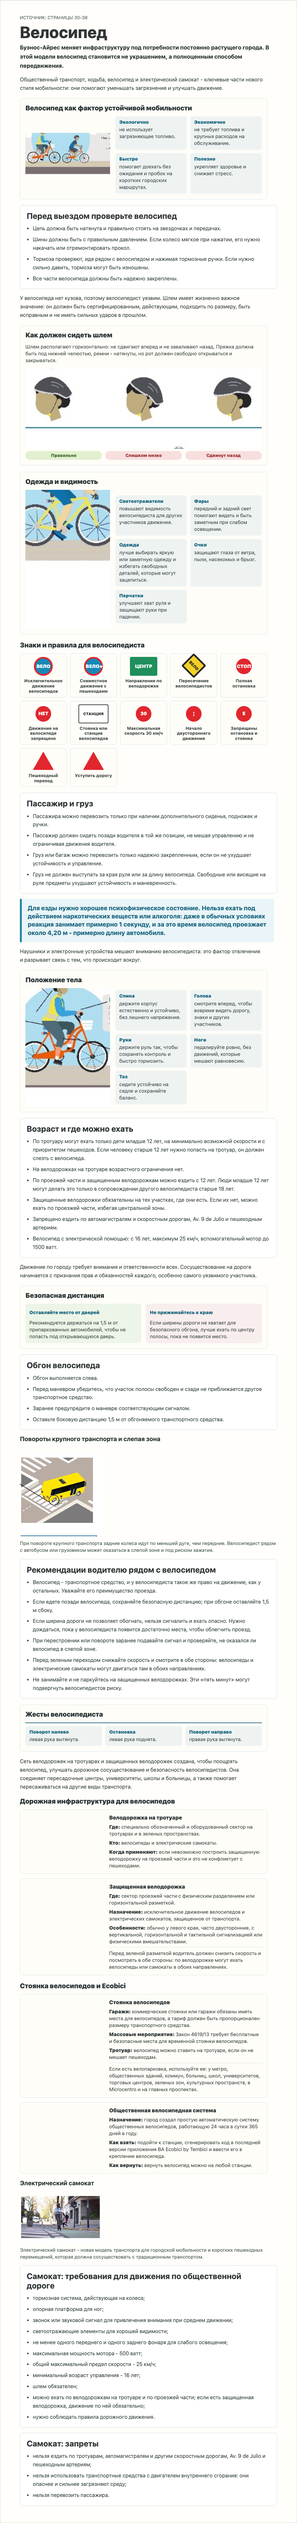
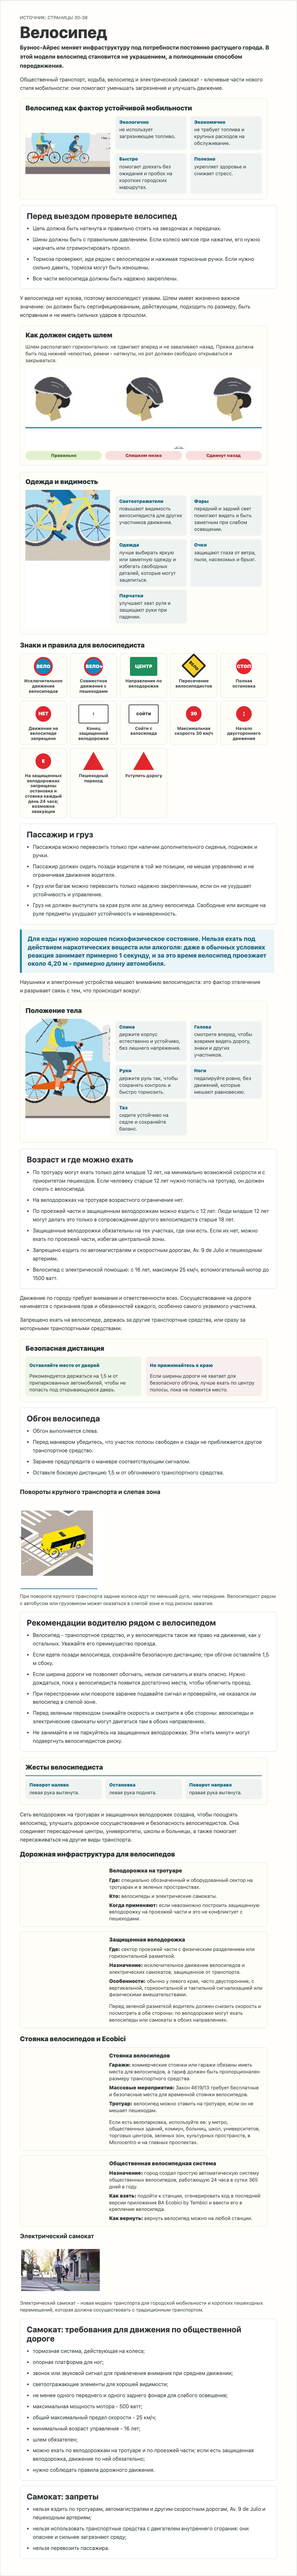
Fix bicycle review feedback

Changed region(s): [[0.0614, 0.0, 0.8904, 0.9996]]

diff --git a/tests/e2e/app.spec.ts b/tests/e2e/app.spec.ts
@@ -3018,6 +3018,11 @@ test("Manual guide exposes Chapter 1 section pages and keeps later sections pend
   await expect(bicycleSection).toContainText("4,20 м");
   await expect(bicycleSection).toContainText("старше 18 лет");
   await expect(bicycleSection).toContainText("1500 ватт");
+  await expect(bicycleSection).toContainText("Конец защищенной велодорожки");
+  await expect(bicycleSection).toContainText("Сойти с велосипеда");
+  await expect(bicycleSection).toContainText("На защищенных велодорожках запрещены остановка и стоянка каждый день 24 часа");
+  await expect(bicycleSection).toContainText("эвакуация");
+  await expect(bicycleSection).toContainText("Запрещено ехать на велосипеде, держась за другие транспортные средства");
   await expect(bicycleSection).toContainText("1,5 м");
   await expect(bicycleSection).toContainText("Поворот налево");
   await expect(bicycleSection).toContainText("BA Ecobici by Tembici");
@@ -3037,6 +3042,7 @@ test("Manual guide exposes Chapter 1 section pages and keeps later sections pend
   await expect(bicycleSection).not.toContainText("Viaje compartido");
   await expect(bicycleSection).not.toContainText("Responsabilidades legales");
   await expect(bicycleSection).not.toContainText("Acompanante");
+  await expect(bicycleSection).not.toContainText("Стоянка или станция велосипедов");
   await expect(bicycleSection.locator("iframe, object, embed")).toHaveCount(0);
   await expect(bicycleSection.locator('[data-testid="manual-page-canvas"], [data-testid="manual-source-mask"]')).toHaveCount(0);
 
@@ -3101,6 +3107,9 @@ test("Manual guide exposes Chapter 1 section pages and keeps later sections pend
   });
   expect(bicycleSelectedText).toContain("Правильно");
   expect(bicycleSelectedText).toContain("Слишком низко");
+  expect(bicycleSelectedText).toContain("Конец защищенной велодорожки");
+  expect(bicycleSelectedText).toContain("Сойти с велосипеда");
+  expect(bicycleSelectedText).toContain("Запрещено ехать на велосипеде");
   expect(bicycleSelectedText).toContain("Поворот налево");
   expect(bicycleSelectedText).toContain("1,5 м");
   expect(bicycleSelectedText).toContain("500 ватт");

diff --git a/src/data/manual-sections/ch1-bicycle.ts b/src/data/manual-sections/ch1-bicycle.ts
@@ -255,10 +255,16 @@ export const ch1BicycleSection: ManualGuideSectionContent = {
           labelRu: "Движение на велосипеде запрещено"
         },
         {
-          id: "bike-station",
+          id: "end-ciclovia",
           visualKind: "text",
-          markerRu: "станция",
-          labelRu: "Стоянка или станция велосипедов"
+          markerRu: "!",
+          labelRu: "Конец защищенной велодорожки"
+        },
+        {
+          id: "dismount-bicycle",
+          visualKind: "text",
+          markerRu: "сойти",
+          labelRu: "Сойти с велосипеда"
         },
         {
           id: "max-30",
@@ -276,7 +282,7 @@ export const ch1BicycleSection: ManualGuideSectionContent = {
           id: "no-parking",
           visualKind: "red",
           markerRu: "E",
-          labelRu: "Запрещены остановка и стоянка"
+          labelRu: "На защищенных велодорожках запрещены остановка и стоянка каждый день 24 часа; возможна эвакуация"
         },
         {
           id: "pedestrian-crossing",
@@ -392,6 +398,14 @@ export const ch1BicycleSection: ManualGuideSectionContent = {
         "Moverse en la Ciudad requiere de atencion y compromiso de toda la ciudadania. Mejorar la convivencia implica reconocer los derechos y obligaciones de cada persona.",
       textRu:
         "Движение по городу требует внимания и ответственности всех. Сосуществование на дороге начинается с признания прав и обязанностей каждого, особенно самого уязвимого участника."
+    },
+    {
+      id: "vehicle-holding-prohibition",
+      kind: "paragraph",
+      sourceTextEs:
+        "Esta prohibido circular agarrados a otros vehiculos o enfilados inmediatamente tras otros automotores.",
+      textRu:
+        "Запрещено ехать на велосипеде, держась за другие транспортные средства, или сразу за моторными транспортными средствами."
     },
     {
       id: "safe-distance",

diff --git a/specs/030-manual-chapters-1-2/tasks.md b/specs/030-manual-chapters-1-2/tasks.md
@@ -150,7 +150,7 @@ For each section key:
 - [x] Rendered runtime visual content as Russian DOM labels plus local source-derived non-text crops; Spanish source crops remain validation evidence only and are not mounted as learner text/content.
[4 lines of base64/hex data omitted]
 - [x] Added focused content/e2e tests for route activation, implemented-vs-pending state, source pages `30-38`, visual asset paths/hashes, no unrelated section implementation, no full source page raster, no remote assets, no visible Spanish learner text, selectable Russian labels, no overflow/layout clipping, desktop/mobile screenshots, and pending status for public transport/shared trip.
 - [x] Focused verification passed before this process-memory update: `pnpm exec tsc --noEmit`; `node scripts/manual-guide-source-fidelity.mjs` (`implementedSections: 4`, `pendingSections: 6`, skipped source pages `[21, 43, 56]`, shared source pages `[55]`); `node --test tests/content-manual-guide-chapters.test.mjs` (`20/20`); `pnpm run build`; `pnpm exec playwright test tests/e2e/app.spec.ts --grep "Manual guide exposes Chapter 1 section pages" --project=chromium --project=mobile` (`2/2` after correcting the public transport/shared-trip pending ranges and making selected Russian signal labels preserve authored case).
 - [x] In-app browser verification opened `http://127.0.0.1:5174/#manual-section-ch1-bicycle` and confirmed the rendered `Велосипед` section route before screenshot generation; committed desktop/mobile screenshots were visually inspected for bicycle/scooter/gesture/lane artwork quality, visible-Spanish absence, and readable responsive layout.
@@ -158,6 +158,12 @@ For each section key:
 - [x] Docker runtime smoke passed with isolated project/port: `docker version --format '{{.Server.Version}}'` reported `27.5.1`; `lsof -nP -iTCP:5207 -sTCP:LISTEN` returned no listener; `COMPOSE_PROJECT_NAME=cabadrive030bicycle CABADRIVE_HOST_PORT=5207 make build` built the image and reran content validation/build inside Docker; `COMPOSE_PROJECT_NAME=cabadrive030bicycle CABADRIVE_HOST_PORT=5207 make up` started `cabadrive030bicycle-cabadrive-1`; `curl -fsS http://127.0.0.1:5207/ | head -n 5` returned the Russian HTML shell; `pnpm exec node --input-type=module` Playwright smoke of `http://127.0.0.1:5207/#manual-section-ch1-bicycle` confirmed route section id, 13 no-visible-Spanish images, helmet/distance/scooter text, no Spanish learner text, and no horizontal overflow; `COMPOSE_PROJECT_NAME=cabadrive030bicycle CABADRIVE_HOST_PORT=5207 make down` stopped the runtime; `docker compose -p cabadrive030bicycle ps --all` showed no remaining containers.
 - [x] Known issues for this implementation slice: none at local handoff; no unresolved Implementation Agent feedback.
 - [x] Finalized implementation commit/push and opened ready PR metadata for this slice: PR #180, `https://github.com/cucumberfalse/cabadrive/pull/180`, branch `codex/030-ch1-bicycle`, implementation content head before this PR-metadata evidence update `73ae810f3a812f27301cf2e52c7a4b765ead3379`, draft status `false`. Final handoff head is the later process-memory evidence commit reported by the Implementation Agent after push.
+- [x] PR #180 review-fix baseline: Orchestrator assigned current PR head `5b94f3e353e12da695b6a39f6cbba5e598400a5d`; `git status --short --branch` returned `## codex/030-ch1-bicycle...origin/codex/030-ch1-bicycle` before edits.
+- [x] Addressed PR #180 sign-sheet source-fidelity review `PRRT_kwDOSX65IM6F54lR` / `discussion_r3329475200`: restored source-order signs `end-ciclovia` and `dismount-bicycle`, removed the non-source `bike-station` / `Стоянка или станция велосипедов` entry, and made the ciclovia no-parking rule selectable Russian DOM text with every-day `24 часа` plus evacuation/towing meaning.
+- [x] Addressed PR #180 page `34` riding-prohibition review `PRRT_kwDOSX65IM6F54lS` / `discussion_r3329475202` and duplicate `PRRT_kwDOSX65IM6F54f9` / `discussion_r3329474735`: added the source-order prohibition against riding while holding onto other vehicles or immediately behind motor vehicles as selectable Russian DOM text before the safe-distance block.
+- [x] Addressed PR #180 cycle-row review `PRRT_kwDOSX65IM6F54lT` / `discussion_r3329475203`: removed the stale pending `ch1-bicycle` cycle PR set row so this section is no longer listed as both implemented and pending.
[1 lines of base64/hex data omitted]
+- [x] PR #180 review-fix verification passed: `node scripts/manual-guide-source-fidelity.mjs`; `node --test tests/content-manual-guide-chapters.test.mjs` (`20/20`); `pnpm run build`; `pnpm exec playwright test tests/e2e/app.spec.ts --grep "Manual guide exposes Chapter 1 section pages" --project=chromium --project=mobile` (`2/2`); `pnpm exec tsc --noEmit`; `git diff --check`; `node scripts/check-feature-memory.mjs --worktree`.
 
 ## Review Requirements
 
@@ -253,7 +259,7 @@ For each section key:
 - No unresolved known issues for local `ch1-sustainable-mobility` implementation at the time of focused local verification. Architect/Review/Orchestrator validation remains pending after PR creation.
 - Orchestrator visual-inspection blocker for `ch1-sustainable-mobility` mobile infographic clipping is resolved locally by the follow-up responsive reflow and regenerated mobile screenshot; Review/Orchestrator confirmation remains pending after push.
 - Orchestrator visual-polish blocker for `ch1-sustainable-mobility` mobile `ВЕЛОСИПЕДИСТЫ` word split is resolved locally by the two-column vulnerability label grid and regenerated mobile screenshot; Review/Orchestrator confirmation remains pending after push.
-- No unresolved known issues for local `ch1-bicycle` implementation at the time of focused source-fidelity/content/TypeScript/build/Playwright verification. Review/Orchestrator validation remains pending after PR creation.
+- No unresolved known issues for local `ch1-bicycle` implementation after PR #180 review fixes and focused source-fidelity/content/TypeScript/build/Playwright/diff/feature-memory verification. Review-thread resolution and final validation remain Orchestrator/Review responsibilities.
 
 ### Verification Evidence
 
@@ -336,14 +342,16 @@ For each section key:
 - Implementation Agent source inspection for `ch1-bicycle`: inspected source PDF pages `30-38` in `manual.ru.json`, `layout.ru.json`, `navigation.ru.json`, the section registry, and local page renders `page-030.jpg` through `page-038.jpg`. Visual inspection confirmed bicycle, helmet/gear, signs, posture, distance, off-tracking, hand signals, lanes, parking, Ecobici, and scooter visual content belongs to one website-section PR.
 - Source crop evidence for `ch1-bicycle`: generated nine validation crops under `content/validation/manual-guide/ch1-bicycle/` for pages `30-38`; dimensions and SHA-256 values are recorded in the current-section slice above and in the section registry.
 - Runtime crop evidence for `ch1-bicycle`: generated thirteen source-derived non-text runtime assets under `content/assets/manuals/gcba-manual-vehiculo-4-ruedas-2023/sections/ch1-bicycle/`; dimensions and SHA-256 values are recorded in the current-section slice above and in the section registry.
[4 lines of base64/hex data omitted]
 - In-app browser verification for `ch1-bicycle`: direct route `http://127.0.0.1:5174/#manual-section-ch1-bicycle` rendered the `Велосипед` section; desktop/mobile screenshots were visually inspected after the selected-text case fix and showed readable bicycle, scooter, gesture, lane, helmet, distance, parking, and Ecobici visuals without visible Spanish learner text.
 - Focused local verification passed for `ch1-bicycle`: `node scripts/manual-guide-source-fidelity.mjs` returned `status: pass`, `implementedSections: 4`, `pendingSections: 6`, skipped source pages `[21, 43, 56]`, shared source pages `[55]`, and source-crop/screenshot evidence recorded for implemented sections.
 - Focused local verification passed for `ch1-bicycle`: `node --test tests/content-manual-guide-chapters.test.mjs` passed `20/20`; `pnpm exec tsc --noEmit` passed; `pnpm run build` passed including content validation, manual-guide checker, Vite build, and service-worker generation; `pnpm exec playwright test tests/e2e/app.spec.ts --grep "Manual guide exposes Chapter 1 section pages" --project=chromium --project=mobile` passed `2/2` across desktop Chromium and Pixel 7 mobile.
 - Full local verification passed for `ch1-bicycle`: `pnpm run test` passed `329/329`; `pnpm run preflight` completed feature-memory gate, repo baseline, content validation/source-fidelity, `329/329` Node tests, production build/service-worker generation, and full Playwright e2e with `74/74` passing tests across desktop/mobile projects.
 - Docker runtime smoke passed for `ch1-bicycle` with isolated project/port: `COMPOSE_PROJECT_NAME=cabadrive030bicycle CABADRIVE_HOST_PORT=5207 make build` built the image and reran content validation/build inside Docker; `COMPOSE_PROJECT_NAME=cabadrive030bicycle CABADRIVE_HOST_PORT=5207 make up` started the container; `curl -fsS http://127.0.0.1:5207/ | head -n 5` returned the Russian HTML shell; a Playwright smoke of `http://127.0.0.1:5207/#manual-section-ch1-bicycle` confirmed section id `ch1-bicycle`, 13 `data-visible-spanish="false"` images, helmet/distance/scooter learner text, no Spanish learner text, and no document overflow; `COMPOSE_PROJECT_NAME=cabadrive030bicycle CABADRIVE_HOST_PORT=5207 make down` stopped the runtime; `docker compose -p cabadrive030bicycle ps --all` showed no remaining containers.
 - Ready PR opened for `ch1-bicycle`: PR #180, `https://github.com/cucumberfalse/cabadrive/pull/180`, branch `codex/030-ch1-bicycle`, implementation content head `73ae810f3a812f27301cf2e52c7a4b765ead3379`, draft status `false`. Final handoff head is the later process-memory evidence commit reported by the Implementation Agent after push.
+- PR #180 review-fix implementation: restored page `32` sign-sheet source order, removed the non-source station sign, added no-parking-on-ciclovia `24 часа`/evacuation learner text, added the page `34` prohibition against holding onto/following motor vehicles before distance guidance, and removed the stale pending `ch1-bicycle` cycle PR set row.
+- PR #180 review-fix verification passed: `node scripts/manual-guide-source-fidelity.mjs` returned `status: pass`, `implementedSections: 4`, `pendingSections: 6`; `node --test tests/content-manual-guide-chapters.test.mjs` passed `20/20`; `pnpm run build` passed; `pnpm exec playwright test tests/e2e/app.spec.ts --grep "Manual guide exposes Chapter 1 section pages" --project=chromium --project=mobile` passed `2/2`; `pnpm exec tsc --noEmit` passed; `git diff --check` passed; `node scripts/check-feature-memory.mjs --worktree` passed.
 
 ### Cycle PR Set
 
@@ -355,8 +363,7 @@ For each section key:
 | `ch1-cities-for-people` | Implement website section page `Ciudades para las personas` / `Города для людей` with source page `22` evidence and selectable `ПЛАВНОСТЬ / БЕЗОПАСНОСТЬ` visual | `codex/030-ch1-cities-for-people` | PR #177, `https://github.com/cucumberfalse/cabadrive/pull/177` | prior effective content head `499aa8547f7d13b3b9819cbd0d2e8650fa99da06` is stale after source-order P2; final crop-order fix head reported after push | crop-order fix implemented locally; focused checker/content/build/Playwright, diff hygiene, and feature-memory check passed; final validation must rerun | yes |
 | `ch1-sustainable-mobility` | Implement website section page `¿Qué es la movilidad sustentable?` / `Что такое устойчивая мобильность?` with source page `23` infographic and vulnerability-order evidence | `codex/030-ch1-sustainable-mobility` | PR #178, `https://github.com/cucumberfalse/cabadrive/pull/178` | implementation content head `c068245dd3ed4138735b2b12dc50d27f688bce8c`; prior PR-metadata evidence head `73df18169ad941501a3ce7b5f8c77af14ff9fc43`; responsive-fix head `47be8d1a9f81cf05746e4d738bdd519dd81c4fa5`; visual-polish head `040aa70d4ee08a70f599b570b91832587b02baf7`; label/pictogram mapping fix head `470333e95494438f86e128fe61858339d077367f`; final-validation evidence head `b1a8cf067c1d452db58d8b50204a23dc57652b9d`; accessibility P2 fix head `403e779cae2b526e6fd90a06bf12a752f709416e`; current-head 50-person asset P2 fix head reported after push | implemented and opened ready; mobile infographic clipping, label word-split, label/pictogram mapping, desktop assistive-tech label, and explicit 50-person space-crop follow-ups implemented locally; current source-fidelity/content/tsc/build/focused Playwright/diff/feature-memory and full preflight passed; Docker smoke passed before later P2 fixes | yes |
 | `ch1-pedestrian-priority` | Implement website section page `Prioridad peatonal` / `Пешеходный приоритет` with source pages `24-29` visual/evidence coverage | `codex/030-ch1-pedestrian-priority` | PR #179, `https://github.com/cucumberfalse/cabadrive/pull/179` | implementation content head `ee2b335884a445b92ce195500bf90527672b9594`; final handoff head reported by Implementation Agent after PR-metadata evidence commit | implemented and opened ready; focused source-fidelity/content/TypeScript/build/Playwright, in-app browser verification, full preflight, Docker smoke, diff hygiene, and feature-memory checks passed | yes |
-| `ch1-bicycle` | Implement website section page `Bicicleta` / `Велосипед` with source pages `30-38` visual/evidence coverage | `codex/030-ch1-bicycle` | PR #180, `https://github.com/cucumberfalse/cabadrive/pull/180` | implementation content head `73ae810f3a812f27301cf2e52c7a4b765ead3379`; final handoff head reported by Implementation Agent after PR-metadata evidence commit | implemented and opened ready; focused source-fidelity/content/TypeScript/build/Playwright, in-app browser visual verification, full preflight, Docker smoke, diff hygiene, and feature-memory checks passed | yes |
-| `ch1-bicycle` | Implement website section page `Bicicleta` | pending Orchestrator assignment | pending | pending | pending | yes |
+| `ch1-bicycle` | Implement website section page `Bicicleta` / `Велосипед` with source pages `30-38` visual/evidence coverage | `codex/030-ch1-bicycle` | PR #180, `https://github.com/cucumberfalse/cabadrive/pull/180` | implementation content head `73ae810f3a812f27301cf2e52c7a4b765ead3379`; review-fix baseline head `5b94f3e353e12da695b6a39f6cbba5e598400a5d`; review-fix content head to be reported after commit/push | implemented and opened ready; PR #180 review fixes for sign-sheet source order, page 34 riding prohibition, stale cycle-row cleanup, regenerated screenshots, source-fidelity/content/TypeScript/build/focused Playwright/diff/feature-memory verification passed locally; review-thread/final-validation state pending Orchestrator routing | yes |
 | `ch1-public-transport-system` | Implement website section page `Sistema de transporte público` | pending Orchestrator assignment | pending | pending | pending | yes |
 | `ch1-shared-trip` | Implement website section page `Viaje compartido` | pending Orchestrator assignment | pending | pending | pending | yes |
 | `ch2-legal-responsibility` | Implement website section page `Responsabilidades legales` | pending Orchestrator assignment | pending | pending | pending | yes |
